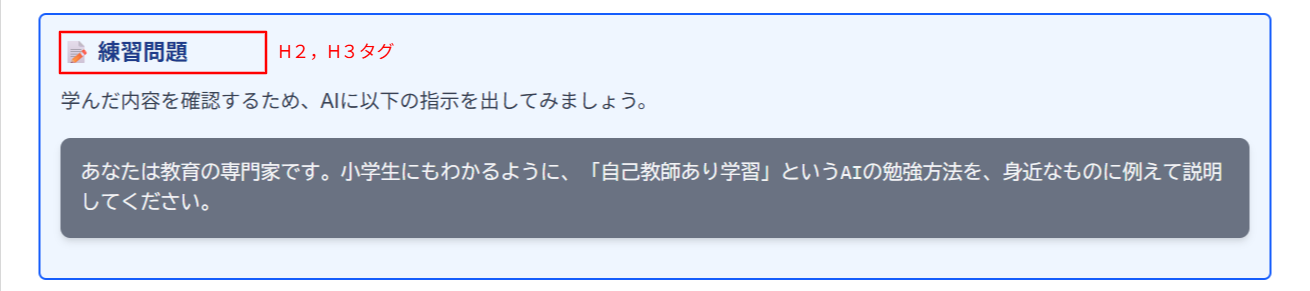
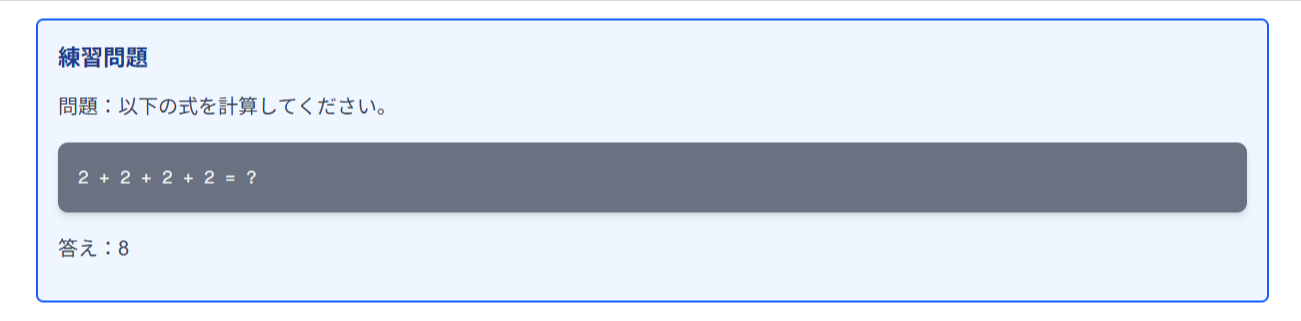
first commit

Changed region(s): [[0.0, 0.0, 1.0, 0.9897]]

diff --git a/create_content_ja/03_markdown.md b/create_content_ja/03_markdown.md
@@ -156,9 +156,10 @@ console.log(greeting);
 :::exercise
 ### 練習問題
 問題：以下の式を計算してください。
-2
 
-答え：4
+2 + 2 + 2 + 2 = ? 
+
+答え：8
 :::
 ```
 
@@ -170,9 +171,10 @@ console.log(greeting);
 :::practice
 ### 発展問題
 問題：以下の式を計算してください。
-2
 
-答え：4
+2 * 2 * 2 * 2 = ?
+
+答え：16
 :::
 ```
 
@@ -220,6 +222,29 @@ console.log(greeting);
 - 学習した内容1
 - 学習した内容2
 - 学習した内容3
+:::
+```
+
+**メッセージ：**
+
+![w=60% center](assets/message.png)
+
+```markdown
+:::message
+### メッセージ
+このセクションで最も重要な概念は、〇〇〇です。
+必ず理解してください。
+:::
+```
+
+**中央配置：**
+
+![w=60% center](assets/center.png)
+
+```markdown
+:::center
+### 中央配置
+中央配置がしたくなる場合はこちらです。
 :::
 ```
 
